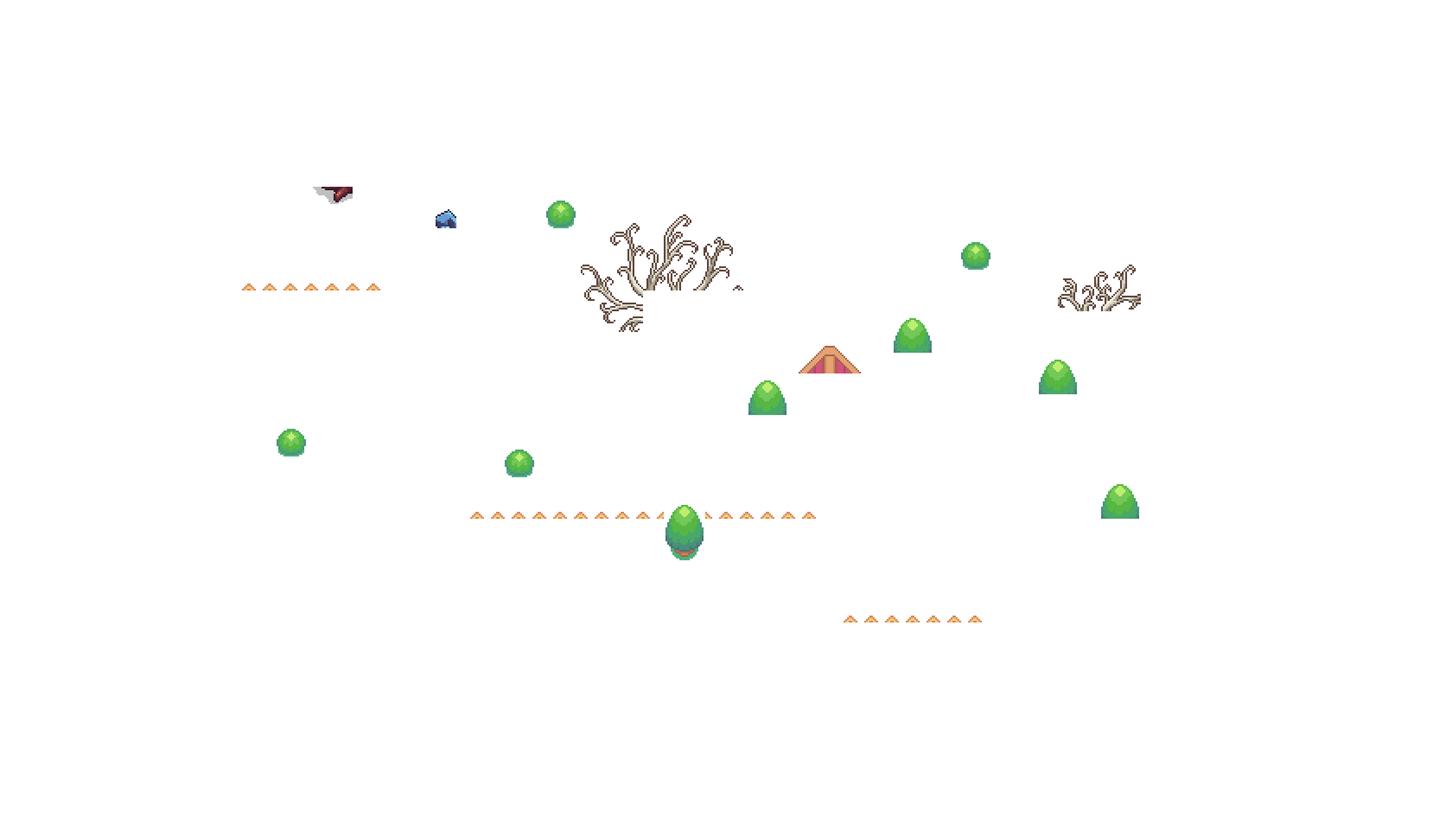
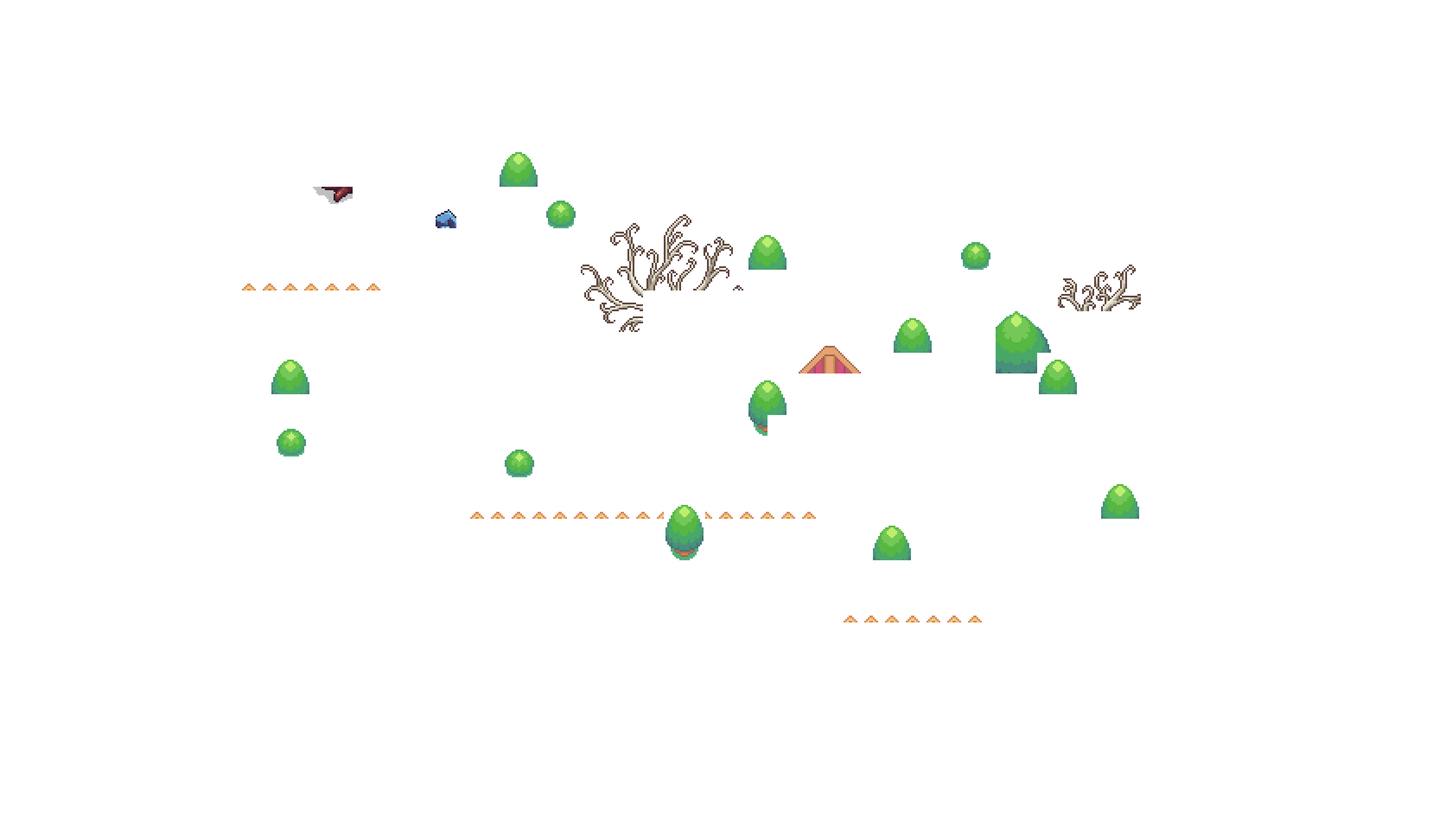
Initial commit

diff --git a/data/collisions.js b/data/collisions.js
@@ -3,34 +3,34 @@ const collisions = [0, 0, 0, 0, 0, 0, 0, 0, 0, 0, 0, 0, 0, 0, 0, 0, 0, 0, 0, 0, 
     0, 0, 0, 0, 0, 0, 0, 0, 0, 0, 0, 0, 0, 0, 0, 0, 0, 0, 0, 0, 0, 0, 0, 0, 0, 0, 0, 0, 0, 0, 0, 0, 0, 0, 0, 0, 0, 0, 0, 0, 0, 0, 0, 0, 0, 0, 0, 0, 0, 0, 0, 0, 0, 0, 0, 0, 0, 0, 0, 0, 0, 0, 0, 0, 0, 0, 0, 0, 0, 0,
     0, 0, 0, 0, 0, 0, 0, 0, 0, 0, 0, 0, 0, 0, 0, 0, 0, 0, 0, 0, 0, 0, 0, 0, 0, 0, 0, 0, 0, 0, 0, 0, 0, 0, 0, 0, 0, 0, 0, 0, 0, 0, 0, 0, 0, 0, 0, 0, 0, 0, 0, 0, 0, 0, 0, 0, 0, 0, 0, 0, 0, 0, 0, 0, 0, 0, 0, 0, 0, 0,
     0, 0, 0, 0, 0, 0, 0, 0, 0, 0, 0, 0, 0, 0, 0, 0, 0, 0, 0, 0, 0, 0, 0, 0, 0, 0, 0, 0, 0, 0, 0, 0, 0, 0, 0, 0, 0, 0, 0, 0, 0, 0, 0, 0, 0, 0, 0, 0, 0, 0, 0, 0, 0, 0, 0, 0, 0, 0, 0, 0, 0, 0, 0, 0, 0, 0, 0, 0, 0, 0,
-    0, 0, 0, 0, 0, 0, 0, 0, 0, 0, 0, 0, 0, 0, 0, 0, 0, 0, 0, 0, 0, 0, 0, 0, 0, 0, 0, 0, 0, 0, 0, 0, 0, 0, 0, 0, 0, 0, 0, 0, 0, 0, 0, 0, 0, 0, 0, 0, 0, 0, 0, 0, 0, 0, 0, 0, 0, 0, 0, 0, 0, 0, 0, 0, 0, 0, 0, 0, 0, 0,
-    0, 0, 0, 0, 0, 0, 0, 0, 0, 0, 0, 0, 0, 0, 0, 0, 0, 0, 0, 0, 4541, 4541, 4541, 4541, 4541, 4541, 4541, 4541, 0, 0, 0, 0, 0, 0, 0, 0, 0, 0, 0, 0, 0, 0, 0, 0, 0, 0, 0, 0, 0, 0, 0, 0, 0, 0, 0, 0, 0, 0, 0, 0, 0, 0, 0, 0, 0, 0, 0, 0, 0, 0,
-    0, 0, 0, 0, 0, 0, 0, 0, 0, 0, 0, 0, 0, 0, 0, 0, 0, 0, 0, 4541, 0, 0, 0, 0, 0, 0, 0, 0, 4541, 4541, 4541, 0, 0, 0, 0, 0, 0, 0, 0, 0, 0, 0, 0, 0, 0, 0, 0, 0, 0, 0, 0, 0, 0, 0, 0, 0, 0, 0, 0, 0, 0, 0, 0, 0, 0, 0, 0, 0, 0, 0,
-    0, 0, 0, 0, 0, 0, 0, 0, 0, 0, 0, 4541, 4541, 4541, 4541, 4541, 4541, 4541, 4541, 4541, 4541, 4541, 4541, 4541, 4541, 0, 0, 0, 0, 0, 0, 4541, 4541, 4541, 4541, 4541, 0, 0, 0, 0, 0, 0, 0, 0, 0, 0, 0, 0, 0, 0, 0, 0, 4541, 4541, 0, 0, 0, 0, 0, 0, 0, 0, 0, 0, 0, 0, 0, 0, 0, 0,
-    0, 0, 0, 0, 0, 0, 0, 0, 0, 0, 0, 4541, 0, 0, 4541, 0, 0, 0, 0, 0, 0, 0, 4541, 4541, 0, 4541, 0, 0, 0, 0, 0, 0, 0, 0, 0, 0, 4541, 0, 0, 0, 0, 0, 0, 0, 0, 0, 0, 0, 0, 0, 4541, 4541, 0, 0, 4541, 4541, 0, 0, 0, 0, 0, 0, 0, 0, 0, 0, 0, 0, 0, 0,
-    0, 0, 0, 0, 0, 0, 0, 0, 0, 4541, 4541, 0, 0, 0, 4541, 0, 0, 0, 0, 0, 0, 0, 4541, 0, 4541, 0, 0, 0, 0, 0, 0, 0, 0, 0, 0, 0, 0, 4541, 0, 0, 0, 0, 0, 0, 0, 4541, 4541, 4541, 4541, 4541, 0, 0, 0, 0, 0, 0, 4541, 0, 0, 0, 0, 0, 0, 0, 0, 0, 0, 0, 0, 0,
-    0, 0, 0, 0, 0, 0, 0, 0, 0, 4541, 4541, 4541, 4541, 4541, 4541, 4541, 0, 0, 0, 0, 0, 4541, 4541, 0, 4541, 0, 0, 0, 0, 0, 0, 0, 0, 0, 0, 0, 0, 0, 0, 0, 4541, 4541, 4541, 4541, 4541, 4541, 0, 0, 4541, 4541, 0, 0, 0, 0, 0, 4541, 0, 0, 0, 0, 0, 0, 0, 0, 0, 0, 0, 0, 0, 0,
-    0, 0, 0, 0, 0, 0, 0, 0, 0, 4541, 0, 0, 0, 0, 0, 0, 0, 0, 0, 0, 0, 0, 0, 0, 4541, 0, 0, 0, 0, 0, 0, 0, 0, 0, 0, 0, 0, 0, 4541, 4541, 0, 0, 0, 0, 0, 0, 0, 0, 0, 0, 0, 0, 0, 0, 0, 4541, 0, 0, 0, 0, 0, 0, 0, 0, 0, 0, 0, 0, 0, 0,
+    0, 0, 0, 0, 0, 0, 0, 0, 0, 0, 0, 0, 0, 0, 0, 0, 0, 0, 0, 4541, 4541, 4541, 4541, 4541, 4541, 4541, 4541, 0, 0, 0, 0, 0, 0, 0, 0, 0, 0, 0, 0, 0, 0, 0, 0, 0, 0, 0, 0, 0, 0, 0, 0, 0, 0, 0, 0, 0, 0, 0, 0, 0, 0, 0, 0, 0, 0, 0, 0, 0, 0, 0,
+    0, 0, 0, 0, 0, 0, 0, 0, 0, 0, 0, 0, 0, 0, 0, 0, 0, 0, 0, 4541, 0, 0, 0, 0, 0, 0, 0, 4541, 0, 0, 0, 0, 0, 0, 0, 0, 0, 0, 0, 0, 0, 0, 0, 0, 0, 0, 0, 0, 0, 0, 0, 0, 0, 0, 0, 0, 0, 0, 0, 0, 0, 0, 0, 0, 0, 0, 0, 0, 0, 0,
+    0, 0, 0, 0, 0, 0, 0, 0, 0, 0, 0, 0, 0, 0, 0, 0, 0, 0, 0, 4541, 0, 0, 0, 0, 0, 0, 0, 0, 4541, 4541, 4541, 4541, 0, 0, 0, 0, 0, 0, 0, 0, 0, 0, 0, 0, 4541, 4541, 0, 0, 0, 0, 0, 0, 0, 0, 0, 0, 0, 0, 0, 0, 0, 0, 0, 0, 0, 0, 0, 0, 0, 0,
+    0, 0, 0, 0, 0, 0, 0, 0, 0, 0, 0, 0, 0, 0, 0, 4541, 4541, 4541, 4541, 4541, 4541, 4541, 4541, 4541, 4541, 0, 0, 0, 0, 0, 0, 0, 4541, 4541, 4541, 4541, 4541, 0, 0, 0, 0, 0, 0, 4541, 0, 4541, 0, 0, 0, 0, 0, 4541, 4541, 4541, 0, 0, 0, 0, 0, 0, 0, 0, 0, 0, 0, 0, 0, 0, 0, 0,
+    0, 0, 0, 0, 0, 0, 0, 0, 0, 0, 0, 0, 0, 0, 4541, 0, 0, 0, 0, 0, 0, 0, 4541, 4541, 0, 4541, 0, 0, 0, 0, 0, 0, 0, 0, 0, 0, 0, 4541, 0, 0, 0, 0, 4541, 0, 0, 4541, 0, 0, 0, 0, 4541, 0, 0, 0, 4541, 4541, 0, 0, 0, 0, 0, 0, 0, 0, 0, 0, 0, 0, 0, 0,
+    0, 0, 0, 0, 0, 0, 0, 0, 0, 0, 0, 0, 0, 0, 4541, 0, 0, 0, 0, 0, 0, 0, 4541, 0, 4541, 0, 4541, 0, 0, 0, 0, 0, 0, 0, 0, 0, 0, 4541, 0, 0, 0, 4541, 0, 0, 0, 4541, 4541, 4541, 4541, 4541, 0, 0, 0, 0, 0, 0, 4541, 0, 0, 0, 0, 0, 0, 0, 0, 0, 0, 0, 0, 0,
+    0, 0, 0, 0, 0, 0, 0, 0, 0, 0, 4541, 4541, 4541, 4541, 4541, 0, 0, 0, 0, 0, 0, 4541, 4541, 0, 4541, 0, 0, 0, 0, 0, 0, 0, 0, 0, 0, 0, 0, 0, 0, 0, 4541, 4541, 0, 0, 4541, 4541, 0, 0, 4541, 0, 0, 0, 0, 0, 0, 0, 4541, 0, 0, 0, 0, 0, 0, 0, 0, 0, 0, 0, 0, 0,
+    0, 0, 0, 0, 0, 0, 0, 0, 0, 4541, 0, 0, 0, 0, 0, 0, 0, 0, 0, 0, 0, 0, 0, 0, 4541, 0, 0, 0, 0, 0, 0, 0, 0, 0, 0, 0, 0, 0, 4541, 4541, 0, 0, 0, 0, 0, 0, 0, 0, 0, 0, 0, 0, 0, 0, 0, 0, 0, 4541, 0, 0, 0, 0, 0, 0, 0, 0, 0, 0, 0, 0,
     0, 0, 0, 0, 0, 0, 0, 0, 4541, 0, 0, 0, 0, 0, 0, 0, 0, 0, 0, 0, 0, 0, 0, 0, 4541, 0, 0, 0, 0, 0, 0, 0, 0, 0, 0, 0, 4541, 4541, 0, 0, 0, 0, 0, 0, 0, 0, 0, 0, 0, 0, 0, 0, 0, 0, 0, 0, 4541, 0, 0, 0, 0, 0, 0, 0, 0, 0, 0, 0, 0, 0,
     0, 0, 0, 0, 0, 0, 0, 0, 4541, 0, 0, 0, 4541, 4541, 4541, 4541, 4541, 4541, 4541, 0, 0, 0, 0, 0, 4541, 0, 0, 0, 0, 0, 0, 4541, 4541, 0, 4541, 4541, 0, 0, 0, 0, 0, 0, 0, 0, 0, 0, 0, 0, 0, 0, 0, 0, 0, 0, 0, 0, 0, 4541, 0, 0, 0, 0, 0, 0, 0, 0, 0, 0, 0, 0,
-    0, 0, 0, 0, 0, 0, 0, 0, 0, 4541, 4541, 0, 0, 0, 0, 4541, 4541, 4541, 4541, 4541, 0, 0, 0, 4541, 0, 0, 0, 0, 0, 0, 4541, 0, 0, 4541, 0, 4541, 0, 0, 0, 0, 0, 0, 0, 0, 0, 0, 0, 0, 0, 4541, 4541, 4541, 4541, 4541, 0, 0, 0, 4541, 0, 0, 0, 0, 0, 0, 0, 0, 0, 0, 0, 0,
-    0, 0, 0, 0, 0, 0, 0, 0, 0, 0, 0, 4541, 4541, 4541, 4541, 0, 0, 0, 0, 0, 0, 0, 0, 0, 0, 0, 0, 0, 0, 0, 0, 0, 0, 0, 0, 0, 0, 0, 0, 0, 0, 0, 0, 0, 0, 0, 0, 4541, 4541, 0, 4541, 0, 4541, 4541, 0, 0, 0, 4541, 0, 0, 0, 0, 0, 0, 0, 0, 0, 0, 0, 0,
-    0, 0, 0, 0, 0, 0, 0, 0, 0, 0, 0, 0, 0, 0, 4541, 0, 0, 0, 0, 0, 0, 0, 0, 0, 0, 0, 0, 0, 0, 0, 0, 0, 0, 0, 0, 0, 0, 0, 0, 0, 0, 0, 0, 4541, 4541, 0, 0, 4541, 0, 0, 0, 0, 0, 0, 0, 0, 0, 4541, 0, 0, 0, 0, 0, 0, 0, 0, 0, 0, 0, 0,
-    0, 0, 0, 0, 0, 0, 0, 0, 0, 0, 0, 0, 0, 0, 4541, 0, 0, 0, 0, 0, 0, 0, 0, 0, 0, 0, 0, 0, 0, 0, 0, 4541, 4541, 0, 0, 0, 0, 0, 4541, 4541, 4541, 4541, 0, 0, 0, 0, 0, 4541, 4541, 4541, 0, 0, 0, 0, 0, 0, 4541, 4541, 0, 0, 0, 0, 0, 0, 0, 0, 0, 0, 0, 0,
+    0, 0, 0, 0, 0, 0, 0, 0, 0, 4541, 4541, 4541, 0, 0, 0, 0, 0, 0, 0, 4541, 0, 0, 0, 0, 0, 0, 0, 0, 0, 0, 4541, 0, 0, 4541, 0, 4541, 0, 0, 0, 0, 0, 0, 0, 0, 0, 0, 0, 0, 0, 0, 0, 0, 4541, 4541, 0, 0, 0, 4541, 0, 0, 0, 0, 0, 0, 0, 0, 0, 0, 0, 0,
+    0, 0, 0, 0, 0, 0, 0, 0, 0, 0, 0, 4541, 0, 0, 0, 0, 0, 0, 0, 0, 0, 0, 0, 0, 0, 0, 0, 0, 0, 0, 0, 0, 0, 0, 0, 0, 0, 0, 0, 0, 0, 0, 0, 0, 0, 0, 0, 4541, 0, 0, 0, 0, 0, 0, 0, 0, 0, 4541, 0, 0, 0, 0, 0, 0, 0, 0, 0, 0, 0, 0,
+    0, 0, 0, 0, 0, 0, 0, 0, 0, 0, 0, 4541, 0, 0, 0, 0, 0, 0, 0, 0, 0, 0, 0, 0, 0, 0, 0, 0, 0, 0, 0, 0, 0, 0, 0, 0, 0, 0, 0, 0, 0, 0, 0, 4541, 4541, 0, 0, 4541, 0, 0, 4541, 0, 0, 0, 0, 0, 0, 4541, 0, 0, 0, 0, 0, 0, 0, 0, 0, 0, 0, 0,
+    0, 0, 0, 0, 0, 0, 0, 0, 0, 0, 0, 0, 4541, 0, 0, 0, 0, 0, 0, 0, 0, 0, 0, 0, 0, 0, 0, 0, 0, 0, 0, 0, 0, 0, 0, 0, 0, 0, 4541, 4541, 4541, 4541, 0, 0, 0, 0, 0, 4541, 4541, 4541, 0, 0, 0, 0, 0, 0, 4541, 4541, 0, 0, 0, 0, 0, 0, 0, 0, 0, 0, 0, 0,
     0, 0, 0, 0, 0, 0, 0, 0, 0, 0, 0, 0, 0, 4541, 0, 0, 0, 0, 0, 0, 0, 0, 0, 0, 0, 0, 0, 0, 0, 0, 0, 4541, 4541, 0, 0, 0, 0, 0, 0, 0, 0, 0, 4541, 4541, 0, 0, 0, 0, 0, 0, 4541, 4541, 0, 0, 0, 4541, 0, 0, 0, 0, 0, 0, 0, 0, 0, 0, 0, 0, 0, 0,
-    0, 0, 0, 0, 0, 0, 0, 0, 0, 0, 0, 0, 4541, 0, 0, 0, 0, 0, 0, 0, 0, 0, 0, 0, 0, 0, 0, 0, 0, 0, 0, 4541, 4541, 0, 0, 0, 4541, 4541, 0, 0, 0, 0, 0, 4541, 0, 0, 0, 0, 0, 0, 0, 0, 0, 0, 0, 4541, 0, 0, 0, 0, 0, 0, 0, 0, 0, 0, 0, 0, 0, 0,
-    0, 0, 0, 0, 0, 0, 0, 0, 0, 0, 0, 0, 4541, 0, 0, 0, 0, 0, 0, 0, 0, 0, 0, 0, 0, 0, 0, 0, 0, 0, 0, 0, 0, 0, 0, 0, 0, 0, 4541, 4541, 4541, 0, 0, 4541, 0, 0, 0, 0, 0, 0, 0, 0, 0, 0, 0, 4541, 0, 0, 0, 0, 0, 0, 0, 0, 0, 0, 0, 0, 0, 0,
-    0, 0, 0, 0, 0, 0, 0, 0, 0, 0, 0, 0, 4541, 4541, 4541, 4541, 4541, 4541, 0, 0, 0, 0, 0, 0, 0, 0, 0, 0, 0, 0, 0, 0, 0, 0, 0, 0, 0, 0, 4541, 0, 0, 4541, 4541, 0, 0, 0, 0, 0, 0, 0, 4541, 4541, 4541, 0, 0, 4541, 0, 0, 0, 0, 0, 0, 0, 0, 0, 0, 0, 0, 0, 0,
-    0, 0, 0, 0, 0, 0, 0, 0, 0, 0, 0, 0, 0, 0, 0, 0, 0, 0, 4541, 0, 0, 0, 0, 0, 0, 0, 0, 0, 0, 0, 0, 0, 0, 0, 0, 0, 0, 0, 0, 0, 0, 0, 0, 0, 0, 0, 0, 0, 0, 0, 0, 0, 0, 0, 0, 4541, 0, 0, 0, 0, 0, 0, 0, 0, 0, 0, 0, 0, 0, 0,
-    0, 0, 0, 0, 0, 0, 0, 0, 0, 0, 0, 0, 0, 0, 0, 0, 0, 0, 4541, 0, 0, 0, 0, 0, 0, 0, 0, 0, 0, 0, 0, 0, 0, 0, 0, 0, 0, 0, 0, 0, 0, 0, 0, 0, 0, 0, 0, 0, 0, 0, 0, 0, 0, 4541, 4541, 4541, 0, 0, 0, 0, 0, 0, 0, 0, 0, 0, 0, 0, 0, 0,
-    0, 0, 0, 0, 0, 0, 0, 0, 0, 0, 0, 0, 0, 0, 0, 0, 0, 0, 4541, 0, 0, 0, 4541, 4541, 4541, 4541, 4541, 4541, 4541, 4541, 4541, 4541, 4541, 4541, 4541, 4541, 4541, 4541, 4541, 4541, 0, 0, 0, 0, 0, 0, 0, 0, 0, 0, 0, 0, 0, 4541, 0, 0, 0, 0, 0, 0, 0, 0, 0, 0, 0, 0, 0, 0, 0, 0,
-    0, 0, 0, 0, 0, 0, 0, 0, 0, 0, 0, 0, 0, 0, 0, 0, 0, 0, 0, 4541, 4541, 4541, 0, 0, 0, 0, 0, 0, 0, 0, 0, 0, 4541, 4541, 0, 0, 0, 0, 0, 0, 0, 0, 4541, 4541, 0, 0, 0, 0, 0, 0, 0, 0, 0, 4541, 4541, 0, 0, 0, 0, 0, 0, 0, 0, 0, 0, 0, 0, 0, 0, 0,
-    0, 0, 0, 0, 0, 0, 0, 0, 0, 0, 0, 0, 0, 0, 0, 0, 0, 0, 0, 0, 0, 0, 0, 0, 0, 0, 0, 0, 0, 0, 0, 0, 0, 4541, 0, 0, 0, 0, 0, 0, 0, 0, 0, 0, 0, 0, 0, 0, 0, 0, 0, 0, 0, 0, 0, 4541, 0, 0, 0, 0, 0, 0, 0, 0, 0, 0, 0, 0, 0, 0,
-    0, 0, 0, 0, 0, 0, 0, 0, 0, 0, 0, 0, 0, 0, 0, 0, 0, 0, 0, 0, 0, 0, 0, 0, 0, 0, 0, 0, 0, 0, 0, 4541, 4541, 0, 0, 0, 0, 0, 0, 0, 0, 0, 0, 0, 0, 0, 0, 0, 0, 0, 0, 0, 0, 0, 0, 4541, 0, 0, 0, 0, 0, 0, 0, 0, 0, 0, 0, 0, 0, 0,
-    0, 0, 0, 0, 0, 0, 0, 0, 0, 0, 0, 0, 0, 0, 0, 0, 0, 0, 0, 0, 0, 0, 0, 0, 0, 0, 0, 0, 0, 0, 0, 4541, 0, 0, 0, 0, 0, 0, 0, 0, 0, 0, 0, 0, 0, 0, 0, 0, 0, 0, 0, 0, 0, 0, 0, 4541, 0, 0, 0, 0, 0, 0, 0, 0, 0, 0, 0, 0, 0, 0,
-    0, 0, 0, 0, 0, 0, 0, 0, 0, 0, 0, 0, 0, 0, 0, 0, 0, 0, 0, 0, 0, 0, 0, 0, 0, 0, 0, 0, 0, 0, 0, 4541, 0, 0, 0, 0, 0, 0, 0, 0, 0, 4541, 4541, 4541, 4541, 4541, 4541, 4541, 4541, 4541, 4541, 4541, 4541, 0, 0, 4541, 0, 0, 0, 0, 0, 0, 0, 0, 0, 0, 0, 0, 0, 0,
-    0, 0, 0, 0, 0, 0, 0, 0, 0, 0, 0, 0, 0, 0, 0, 0, 0, 0, 0, 0, 0, 0, 0, 0, 0, 0, 0, 0, 0, 0, 0, 4541, 4541, 4541, 4541, 4541, 4541, 0, 0, 0, 4541, 0, 0, 0, 0, 0, 0, 0, 0, 0, 0, 0, 4541, 4541, 4541, 4541, 0, 0, 0, 0, 0, 0, 0, 0, 0, 0, 0, 0, 0, 0,
-    0, 0, 0, 0, 0, 0, 0, 0, 0, 0, 0, 0, 0, 0, 0, 0, 0, 0, 0, 0, 0, 0, 0, 0, 0, 0, 0, 0, 0, 0, 0, 0, 0, 0, 0, 0, 0, 4541, 4541, 4541, 4541, 0, 0, 0, 0, 0, 0, 0, 0, 0, 0, 0, 0, 0, 0, 0, 0, 0, 0, 0, 0, 0, 0, 0, 0, 0, 0, 0, 0, 0,
+    0, 0, 0, 0, 0, 0, 0, 0, 0, 0, 0, 0, 4541, 0, 0, 0, 0, 0, 0, 0, 0, 0, 0, 0, 0, 0, 0, 0, 0, 0, 0, 4541, 0, 0, 0, 0, 0, 4541, 0, 0, 0, 4541, 0, 4541, 0, 0, 0, 0, 0, 0, 0, 0, 0, 0, 0, 4541, 0, 0, 0, 0, 0, 0, 0, 0, 0, 0, 0, 0, 0, 0,
+    0, 0, 0, 0, 0, 0, 0, 0, 0, 0, 0, 0, 0, 4541, 0, 0, 0, 0, 0, 0, 0, 0, 0, 0, 0, 0, 0, 0, 0, 0, 0, 0, 0, 0, 0, 0, 0, 0, 4541, 4541, 4541, 4541, 0, 0, 0, 0, 0, 0, 0, 0, 0, 0, 0, 0, 0, 4541, 0, 0, 0, 0, 0, 0, 0, 0, 0, 0, 0, 0, 0, 0,
+    0, 0, 0, 0, 0, 0, 0, 0, 0, 0, 0, 0, 0, 0, 4541, 4541, 4541, 4541, 0, 0, 0, 0, 0, 0, 0, 4541, 0, 0, 0, 0, 0, 0, 0, 0, 0, 0, 0, 0, 0, 0, 0, 0, 0, 0, 0, 0, 0, 0, 0, 0, 0, 0, 0, 0, 0, 4541, 0, 0, 0, 0, 0, 0, 0, 0, 0, 0, 0, 0, 0, 0,
+    0, 0, 0, 0, 0, 0, 0, 0, 0, 0, 0, 0, 0, 0, 0, 0, 0, 0, 4541, 0, 0, 0, 0, 0, 0, 0, 0, 0, 0, 0, 0, 0, 0, 0, 0, 0, 0, 0, 0, 0, 0, 0, 0, 0, 0, 0, 0, 0, 4541, 4541, 4541, 4541, 4541, 0, 0, 4541, 0, 0, 0, 0, 0, 0, 0, 0, 0, 0, 0, 0, 0, 0,
+    0, 0, 0, 0, 0, 0, 0, 0, 0, 0, 0, 0, 0, 0, 0, 0, 0, 0, 4541, 0, 0, 0, 0, 0, 0, 0, 0, 0, 0, 0, 0, 0, 0, 0, 0, 0, 0, 0, 0, 0, 0, 0, 0, 0, 0, 0, 0, 0, 0, 4541, 4541, 4541, 0, 4541, 4541, 4541, 0, 0, 0, 0, 0, 0, 0, 0, 0, 0, 0, 0, 0, 0,
+    0, 0, 0, 0, 0, 0, 0, 0, 0, 0, 0, 0, 0, 0, 0, 0, 0, 0, 4541, 0, 0, 0, 4541, 4541, 4541, 4541, 4541, 4541, 4541, 4541, 4541, 4541, 4541, 4541, 4541, 4541, 4541, 4541, 4541, 0, 0, 0, 0, 0, 0, 0, 0, 0, 0, 0, 0, 0, 0, 4541, 0, 0, 0, 0, 0, 0, 0, 0, 0, 0, 0, 0, 0, 0, 0, 0,
+    0, 0, 0, 0, 0, 0, 0, 0, 0, 0, 0, 0, 0, 0, 0, 0, 0, 0, 0, 4541, 4541, 4541, 0, 0, 0, 0, 0, 0, 0, 0, 0, 0, 4541, 4541, 0, 0, 0, 0, 0, 0, 0, 0, 0, 4541, 0, 0, 0, 0, 0, 0, 0, 0, 0, 4541, 4541, 0, 0, 0, 0, 0, 0, 0, 0, 0, 0, 0, 0, 0, 0, 0,
+    0, 0, 0, 0, 0, 0, 0, 0, 0, 0, 0, 0, 0, 0, 0, 0, 0, 0, 0, 0, 0, 0, 0, 0, 0, 0, 0, 0, 4541, 4541, 0, 4541, 0, 4541, 0, 0, 0, 0, 0, 0, 0, 0, 0, 4541, 0, 0, 0, 0, 0, 0, 0, 0, 0, 0, 0, 4541, 0, 0, 0, 0, 0, 0, 0, 0, 0, 0, 0, 0, 0, 0,
+    0, 0, 0, 0, 0, 0, 0, 0, 0, 0, 0, 0, 0, 0, 0, 0, 0, 0, 0, 0, 0, 0, 0, 0, 0, 0, 0, 4541, 0, 0, 4541, 0, 0, 0, 0, 0, 0, 0, 0, 0, 0, 0, 0, 0, 0, 0, 0, 0, 0, 0, 0, 0, 0, 0, 0, 4541, 0, 0, 0, 0, 0, 0, 0, 0, 0, 0, 0, 0, 0, 0,
+    0, 0, 0, 0, 0, 0, 0, 0, 0, 0, 0, 0, 0, 0, 0, 0, 0, 0, 0, 0, 0, 0, 0, 0, 0, 0, 0, 4541, 0, 0, 0, 0, 0, 0, 0, 0, 0, 0, 0, 0, 0, 0, 0, 0, 0, 0, 0, 0, 0, 0, 0, 0, 0, 0, 0, 4541, 0, 0, 0, 0, 0, 0, 0, 0, 0, 0, 0, 0, 0, 0,
+    0, 0, 0, 0, 0, 0, 0, 0, 0, 0, 0, 0, 0, 0, 0, 0, 0, 0, 0, 0, 0, 0, 0, 0, 0, 0, 0, 4541, 0, 0, 0, 0, 0, 4541, 0, 0, 0, 0, 0, 0, 0, 4541, 4541, 4541, 4541, 4541, 4541, 4541, 4541, 4541, 4541, 4541, 4541, 0, 0, 4541, 0, 0, 0, 0, 0, 0, 0, 0, 0, 0, 0, 0, 0, 0,
+    0, 0, 0, 0, 0, 0, 0, 0, 0, 0, 0, 0, 0, 0, 0, 0, 0, 0, 0, 0, 0, 0, 0, 0, 0, 0, 0, 0, 4541, 4541, 4541, 4541, 4541, 0, 4541, 4541, 0, 0, 0, 0, 4541, 0, 0, 0, 0, 0, 0, 0, 0, 0, 0, 0, 4541, 4541, 4541, 4541, 0, 0, 0, 0, 0, 0, 0, 0, 0, 0, 0, 0, 0, 0,
+    0, 0, 0, 0, 0, 0, 0, 0, 0, 0, 0, 0, 0, 0, 0, 0, 0, 0, 0, 0, 0, 0, 0, 0, 0, 0, 0, 0, 0, 0, 0, 0, 0, 0, 0, 0, 4541, 4541, 4541, 4541, 4541, 0, 0, 0, 0, 0, 0, 0, 0, 0, 0, 0, 0, 0, 0, 0, 0, 0, 0, 0, 0, 0, 0, 0, 0, 0, 0, 0, 0, 0,
     0, 0, 0, 0, 0, 0, 0, 0, 0, 0, 0, 0, 0, 0, 0, 0, 0, 0, 0, 0, 0, 0, 0, 0, 0, 0, 0, 0, 0, 0, 0, 0, 0, 0, 0, 0, 0, 0, 0, 0, 0, 0, 0, 0, 0, 0, 0, 0, 0, 0, 0, 0, 0, 0, 0, 0, 0, 0, 0, 0, 0, 0, 0, 0, 0, 0, 0, 0, 0, 0,
     0, 0, 0, 0, 0, 0, 0, 0, 0, 0, 0, 0, 0, 0, 0, 0, 0, 0, 0, 0, 0, 0, 0, 0, 0, 0, 0, 0, 0, 0, 0, 0, 0, 0, 0, 0, 0, 0, 0, 0, 0, 0, 0, 0, 0, 0, 0, 0, 0, 0, 0, 0, 0, 0, 0, 0, 0, 0, 0, 0, 0, 0, 0, 0, 0, 0, 0, 0, 0, 0,
     0, 0, 0, 0, 0, 0, 0, 0, 0, 0, 0, 0, 0, 0, 0, 0, 0, 0, 0, 0, 0, 0, 0, 0, 0, 0, 0, 0, 0, 0, 0, 0, 0, 0, 0, 0, 0, 0, 0, 0, 0, 0, 0, 0, 0, 0, 0, 0, 0, 0, 0, 0, 0, 0, 0, 0, 0, 0, 0, 0, 0, 0, 0, 0, 0, 0, 0, 0, 0, 0,

diff --git a/data/battleZones.js b/data/battleZones.js
@@ -1,0 +1,40 @@
+const battleZonesData = [0, 0, 0, 0, 0, 0, 0, 0, 0, 0, 0, 0, 0, 0, 0, 0, 0, 0, 0, 0, 0, 0, 0, 0, 0, 0, 0, 0, 0, 0, 0, 0, 0, 0, 0, 0, 0, 0, 0, 0, 0, 0, 0, 0, 0, 0, 0, 0, 0, 0, 0, 0, 0, 0, 0, 0, 0, 0, 0, 0, 0, 0, 0, 0, 0, 0, 0, 0, 0, 0,
+    0, 0, 0, 0, 0, 0, 0, 0, 0, 0, 0, 0, 0, 0, 0, 0, 0, 0, 0, 0, 0, 0, 0, 0, 0, 0, 0, 0, 0, 0, 0, 0, 0, 0, 0, 0, 0, 0, 0, 0, 0, 0, 0, 0, 0, 0, 0, 0, 0, 0, 0, 0, 0, 0, 0, 0, 0, 0, 0, 0, 0, 0, 0, 0, 0, 0, 0, 0, 0, 0,
+    0, 0, 0, 0, 0, 0, 0, 0, 0, 0, 0, 0, 0, 0, 0, 0, 0, 0, 0, 0, 0, 0, 0, 0, 0, 0, 0, 0, 0, 0, 0, 0, 0, 0, 0, 0, 0, 0, 0, 0, 0, 0, 0, 0, 0, 0, 0, 0, 0, 0, 0, 0, 0, 0, 0, 0, 0, 0, 0, 0, 0, 0, 0, 0, 0, 0, 0, 0, 0, 0,
+    0, 0, 0, 0, 0, 0, 0, 0, 0, 0, 0, 0, 0, 0, 0, 0, 0, 0, 0, 0, 0, 0, 0, 0, 0, 0, 0, 0, 0, 0, 0, 0, 0, 0, 0, 0, 0, 0, 0, 0, 0, 0, 0, 0, 0, 0, 0, 0, 0, 0, 0, 0, 0, 0, 0, 0, 0, 0, 0, 0, 0, 0, 0, 0, 0, 0, 0, 0, 0, 0,
+    0, 0, 0, 0, 0, 0, 0, 0, 0, 0, 0, 0, 0, 0, 0, 0, 0, 0, 0, 0, 0, 0, 0, 0, 0, 0, 0, 0, 0, 0, 0, 0, 0, 0, 0, 0, 0, 0, 0, 0, 0, 0, 0, 0, 0, 0, 0, 0, 0, 0, 0, 0, 0, 0, 0, 0, 0, 0, 0, 0, 0, 0, 0, 0, 0, 0, 0, 0, 0, 0,
+    0, 0, 0, 0, 0, 0, 0, 0, 0, 0, 0, 0, 0, 0, 0, 0, 0, 0, 0, 0, 0, 0, 0, 0, 0, 0, 0, 0, 0, 0, 0, 0, 0, 0, 0, 0, 0, 0, 0, 0, 0, 0, 0, 0, 0, 0, 0, 0, 0, 0, 0, 0, 0, 0, 0, 0, 0, 0, 0, 0, 0, 0, 0, 0, 0, 0, 0, 0, 0, 0,
+    0, 0, 0, 0, 0, 0, 0, 0, 0, 0, 0, 0, 0, 0, 0, 0, 0, 0, 0, 0, 0, 0, 0, 0, 0, 0, 0, 0, 0, 0, 0, 0, 0, 0, 0, 0, 0, 0, 0, 0, 0, 0, 0, 0, 0, 0, 0, 0, 0, 0, 0, 0, 0, 0, 0, 0, 0, 0, 0, 0, 0, 0, 0, 0, 0, 0, 0, 0, 0, 0,
+    0, 0, 0, 0, 0, 0, 0, 0, 0, 0, 0, 0, 0, 0, 0, 0, 0, 0, 0, 0, 0, 0, 0, 0, 0, 0, 0, 0, 0, 0, 0, 0, 0, 0, 0, 0, 0, 0, 0, 0, 0, 0, 0, 0, 0, 0, 0, 0, 0, 0, 0, 0, 0, 0, 0, 0, 0, 0, 0, 0, 0, 0, 0, 0, 0, 0, 0, 0, 0, 0,
+    0, 0, 0, 0, 0, 0, 0, 0, 0, 0, 0, 0, 0, 0, 0, 0, 0, 0, 0, 0, 0, 0, 0, 0, 0, 0, 0, 0, 0, 0, 0, 0, 0, 0, 0, 0, 0, 0, 0, 0, 0, 0, 0, 0, 0, 0, 0, 0, 0, 0, 0, 0, 0, 0, 0, 0, 0, 0, 0, 0, 0, 0, 0, 0, 0, 0, 0, 0, 0, 0,
+    0, 0, 0, 0, 0, 0, 0, 0, 0, 0, 0, 0, 0, 0, 0, 0, 4541, 4541, 4541, 4541, 4541, 4541, 0, 0, 0, 0, 0, 0, 0, 0, 0, 0, 0, 0, 0, 0, 0, 0, 0, 0, 0, 0, 0, 0, 0, 0, 0, 0, 0, 0, 0, 0, 0, 0, 0, 0, 0, 0, 0, 0, 0, 0, 0, 0, 0, 0, 0, 0, 0, 0,
+    0, 0, 0, 0, 0, 0, 0, 0, 0, 0, 0, 0, 0, 0, 0, 0, 4541, 4541, 4541, 4541, 4541, 4541, 0, 0, 0, 0, 0, 0, 0, 0, 0, 0, 0, 0, 0, 0, 0, 0, 0, 0, 0, 0, 0, 0, 0, 0, 0, 0, 0, 0, 0, 0, 0, 0, 0, 0, 0, 0, 0, 0, 0, 0, 0, 0, 0, 0, 0, 0, 0, 0,
+    0, 0, 0, 0, 0, 0, 0, 0, 0, 0, 0, 0, 0, 0, 0, 0, 4541, 4541, 4541, 4541, 4541, 0, 0, 0, 0, 0, 0, 0, 0, 0, 0, 0, 0, 0, 0, 0, 0, 0, 0, 0, 0, 0, 0, 0, 0, 0, 0, 0, 0, 0, 0, 4541, 4541, 4541, 0, 0, 0, 0, 0, 0, 0, 0, 0, 0, 0, 0, 0, 0, 0, 0,
+    0, 0, 0, 0, 0, 0, 0, 0, 0, 0, 0, 0, 0, 0, 0, 0, 0, 0, 0, 0, 0, 0, 0, 0, 0, 0, 0, 0, 0, 0, 0, 0, 0, 0, 0, 0, 0, 0, 0, 0, 0, 0, 0, 0, 0, 0, 0, 0, 0, 0, 0, 4541, 4541, 4541, 0, 0, 0, 0, 0, 0, 0, 0, 0, 0, 0, 0, 0, 0, 0, 0,
+    0, 0, 0, 0, 0, 0, 0, 0, 0, 0, 0, 0, 0, 0, 0, 0, 0, 0, 0, 0, 0, 0, 0, 0, 0, 0, 0, 0, 0, 0, 0, 0, 0, 0, 0, 0, 0, 0, 0, 0, 0, 0, 0, 0, 0, 0, 0, 0, 0, 0, 0, 4541, 4541, 4541, 0, 0, 0, 0, 0, 0, 0, 0, 0, 0, 0, 0, 0, 0, 0, 0,
+    0, 0, 0, 0, 0, 0, 0, 0, 0, 0, 0, 0, 0, 0, 0, 0, 0, 0, 0, 0, 0, 0, 0, 0, 0, 0, 0, 0, 0, 0, 0, 0, 0, 0, 0, 0, 0, 0, 0, 0, 0, 0, 0, 0, 0, 0, 0, 0, 0, 0, 0, 0, 0, 0, 0, 0, 0, 0, 0, 0, 0, 0, 0, 0, 0, 0, 0, 0, 0, 0,
+    0, 0, 0, 0, 0, 0, 0, 0, 0, 0, 0, 0, 0, 0, 0, 0, 0, 0, 0, 0, 0, 0, 0, 0, 0, 0, 0, 0, 0, 0, 0, 0, 0, 0, 0, 0, 0, 0, 0, 0, 0, 0, 0, 0, 0, 0, 0, 0, 0, 0, 0, 0, 0, 0, 0, 0, 0, 0, 0, 0, 0, 0, 0, 0, 0, 0, 0, 0, 0, 0,
+    0, 0, 0, 0, 0, 0, 0, 0, 0, 0, 0, 0, 0, 0, 0, 0, 0, 0, 0, 0, 0, 0, 0, 0, 0, 0, 0, 0, 0, 0, 0, 0, 0, 0, 0, 0, 0, 0, 0, 0, 0, 0, 0, 0, 0, 0, 0, 0, 0, 0, 0, 0, 0, 0, 0, 0, 0, 0, 0, 0, 0, 0, 0, 0, 0, 0, 0, 0, 0, 0,
+    0, 0, 0, 0, 0, 0, 0, 0, 0, 0, 0, 0, 0, 0, 0, 0, 0, 0, 0, 0, 0, 0, 0, 0, 0, 0, 0, 0, 0, 0, 0, 0, 0, 0, 0, 0, 0, 0, 0, 0, 0, 0, 0, 0, 0, 0, 0, 0, 0, 0, 0, 0, 0, 0, 0, 0, 0, 0, 0, 0, 0, 0, 0, 0, 0, 0, 0, 0, 0, 0,
+    0, 0, 0, 0, 0, 0, 0, 0, 0, 0, 0, 0, 0, 0, 0, 0, 0, 0, 0, 0, 0, 0, 0, 0, 0, 0, 4541, 4541, 4541, 4541, 4541, 4541, 0, 0, 0, 0, 0, 0, 0, 0, 0, 0, 0, 0, 0, 0, 0, 0, 0, 0, 0, 0, 0, 0, 0, 0, 0, 0, 0, 0, 0, 0, 0, 0, 0, 0, 0, 0, 0, 0,
+    0, 0, 0, 0, 0, 0, 0, 0, 0, 0, 0, 0, 0, 0, 0, 0, 0, 0, 0, 0, 0, 0, 0, 0, 0, 0, 4541, 4541, 4541, 4541, 4541, 4541, 0, 0, 0, 0, 0, 0, 0, 0, 0, 0, 0, 0, 0, 0, 0, 0, 0, 0, 0, 0, 0, 0, 0, 0, 0, 0, 0, 0, 0, 0, 0, 0, 0, 0, 0, 0, 0, 0,
+    0, 0, 0, 0, 0, 0, 0, 0, 0, 0, 0, 0, 0, 0, 0, 0, 0, 0, 0, 0, 0, 0, 0, 0, 0, 0, 4541, 4541, 4541, 4541, 4541, 4541, 0, 0, 0, 0, 0, 0, 0, 0, 0, 0, 0, 0, 0, 0, 0, 0, 0, 0, 0, 0, 0, 0, 0, 0, 0, 0, 0, 0, 0, 0, 0, 0, 0, 0, 0, 0, 0, 0,
+    0, 0, 0, 0, 0, 0, 0, 0, 0, 0, 0, 0, 0, 0, 0, 0, 0, 0, 0, 0, 0, 0, 0, 0, 0, 0, 4541, 4541, 4541, 4541, 4541, 4541, 0, 0, 0, 0, 0, 0, 0, 0, 0, 0, 0, 0, 0, 0, 0, 0, 0, 0, 0, 0, 0, 0, 0, 0, 0, 0, 0, 0, 0, 0, 0, 0, 0, 0, 0, 0, 0, 0,
+    0, 0, 0, 0, 0, 0, 0, 0, 0, 0, 0, 0, 0, 0, 0, 0, 0, 0, 0, 0, 0, 0, 0, 0, 0, 0, 0, 0, 0, 0, 0, 0, 0, 0, 0, 0, 0, 0, 0, 0, 0, 0, 0, 0, 0, 0, 0, 0, 0, 0, 0, 0, 0, 0, 0, 0, 0, 0, 0, 0, 0, 0, 0, 0, 0, 0, 0, 0, 0, 0,
+    0, 0, 0, 0, 0, 0, 0, 0, 0, 0, 0, 0, 0, 0, 0, 0, 0, 0, 0, 0, 0, 0, 0, 0, 0, 0, 0, 0, 0, 0, 0, 0, 0, 0, 0, 0, 0, 0, 0, 0, 0, 0, 0, 0, 0, 0, 0, 0, 0, 0, 0, 0, 0, 0, 0, 0, 0, 0, 0, 0, 0, 0, 0, 0, 0, 0, 0, 0, 0, 0,
+    0, 0, 0, 0, 0, 0, 0, 0, 0, 0, 0, 0, 0, 0, 0, 0, 0, 0, 0, 0, 0, 0, 0, 0, 0, 0, 0, 0, 0, 0, 0, 0, 0, 0, 0, 0, 0, 0, 0, 0, 0, 0, 0, 0, 0, 0, 0, 0, 0, 0, 0, 0, 0, 0, 0, 0, 0, 0, 0, 0, 0, 0, 0, 0, 0, 0, 0, 0, 0, 0,
+    0, 0, 0, 0, 0, 0, 0, 0, 0, 0, 0, 0, 0, 0, 0, 0, 0, 0, 0, 0, 0, 0, 0, 0, 0, 0, 0, 0, 0, 0, 0, 0, 0, 0, 0, 0, 0, 0, 0, 0, 0, 0, 0, 0, 0, 0, 0, 0, 0, 0, 0, 0, 0, 0, 0, 0, 0, 0, 0, 0, 0, 0, 0, 0, 0, 0, 0, 0, 0, 0,
+    0, 0, 0, 0, 0, 0, 0, 0, 0, 0, 0, 0, 0, 0, 0, 0, 0, 0, 0, 0, 0, 0, 0, 0, 0, 0, 0, 0, 0, 0, 0, 0, 0, 0, 0, 0, 0, 0, 0, 0, 0, 0, 0, 0, 0, 0, 0, 0, 0, 0, 0, 0, 0, 0, 0, 0, 0, 0, 0, 0, 0, 0, 0, 0, 0, 0, 0, 0, 0, 0,
+    0, 0, 0, 0, 0, 0, 0, 0, 0, 0, 0, 0, 0, 0, 0, 0, 0, 0, 0, 0, 0, 0, 0, 0, 0, 0, 0, 0, 0, 0, 0, 0, 0, 0, 0, 0, 0, 0, 0, 0, 0, 0, 0, 0, 0, 0, 0, 0, 0, 0, 0, 0, 0, 0, 0, 0, 0, 0, 0, 0, 0, 0, 0, 0, 0, 0, 0, 0, 0, 0,
+    0, 0, 0, 0, 0, 0, 0, 0, 0, 0, 0, 0, 0, 0, 0, 0, 0, 0, 0, 0, 0, 0, 0, 0, 0, 0, 0, 0, 0, 0, 0, 0, 0, 0, 0, 0, 0, 0, 0, 0, 0, 0, 0, 0, 0, 0, 0, 0, 0, 0, 0, 0, 0, 0, 0, 0, 0, 0, 0, 0, 0, 0, 0, 0, 0, 0, 0, 0, 0, 0,
+    0, 0, 0, 0, 0, 0, 0, 0, 0, 0, 0, 0, 0, 0, 0, 0, 0, 0, 0, 0, 0, 0, 0, 0, 0, 0, 0, 0, 0, 0, 0, 0, 0, 0, 0, 0, 0, 0, 0, 0, 0, 0, 0, 0, 0, 0, 0, 0, 0, 0, 0, 0, 0, 0, 0, 0, 0, 0, 0, 0, 0, 0, 0, 0, 0, 0, 0, 0, 0, 0,
+    0, 0, 0, 0, 0, 0, 0, 0, 0, 0, 0, 0, 0, 0, 0, 0, 0, 0, 0, 0, 0, 0, 0, 0, 0, 0, 0, 0, 0, 0, 0, 0, 0, 0, 0, 0, 0, 0, 0, 0, 0, 0, 0, 0, 0, 0, 0, 0, 0, 0, 0, 0, 0, 0, 0, 0, 0, 0, 0, 0, 0, 0, 0, 0, 0, 0, 0, 0, 0, 0,
+    0, 0, 0, 0, 0, 0, 0, 0, 0, 0, 0, 0, 0, 0, 0, 0, 0, 0, 0, 0, 0, 0, 0, 0, 0, 0, 0, 0, 0, 0, 0, 0, 0, 0, 0, 0, 0, 0, 0, 0, 0, 0, 0, 0, 0, 0, 0, 0, 0, 0, 0, 0, 0, 0, 0, 0, 0, 0, 0, 0, 0, 0, 0, 0, 0, 0, 0, 0, 0, 0,
+    0, 0, 0, 0, 0, 0, 0, 0, 0, 0, 0, 0, 0, 0, 0, 0, 0, 0, 0, 0, 0, 0, 0, 0, 0, 0, 0, 0, 0, 0, 0, 0, 0, 0, 0, 0, 0, 0, 0, 0, 0, 0, 0, 0, 0, 0, 0, 0, 0, 0, 0, 0, 0, 0, 0, 0, 0, 0, 0, 0, 0, 0, 0, 0, 0, 0, 0, 0, 0, 0,
+    0, 0, 0, 0, 0, 0, 0, 0, 0, 0, 0, 0, 0, 0, 0, 0, 0, 0, 0, 0, 0, 0, 0, 0, 0, 0, 0, 0, 0, 0, 0, 0, 0, 0, 0, 0, 0, 0, 0, 0, 0, 0, 0, 0, 0, 0, 0, 0, 0, 0, 0, 0, 0, 0, 0, 0, 0, 0, 0, 0, 0, 0, 0, 0, 0, 0, 0, 0, 0, 0,
+    0, 0, 0, 0, 0, 0, 0, 0, 0, 0, 0, 0, 0, 0, 0, 0, 0, 0, 0, 0, 0, 0, 0, 0, 0, 0, 0, 0, 0, 0, 0, 0, 0, 0, 0, 0, 0, 0, 0, 0, 0, 0, 0, 0, 0, 0, 0, 0, 0, 0, 0, 0, 0, 0, 0, 0, 0, 0, 0, 0, 0, 0, 0, 0, 0, 0, 0, 0, 0, 0,
+    0, 0, 0, 0, 0, 0, 0, 0, 0, 0, 0, 0, 0, 0, 0, 0, 0, 0, 0, 0, 0, 0, 0, 0, 0, 0, 0, 0, 0, 0, 0, 0, 0, 0, 0, 0, 0, 0, 0, 0, 0, 0, 0, 0, 0, 0, 0, 0, 0, 0, 0, 0, 0, 0, 0, 0, 0, 0, 0, 0, 0, 0, 0, 0, 0, 0, 0, 0, 0, 0,
+    0, 0, 0, 0, 0, 0, 0, 0, 0, 0, 0, 0, 0, 0, 0, 0, 0, 0, 0, 0, 0, 0, 0, 0, 0, 0, 0, 0, 0, 0, 0, 0, 0, 0, 0, 0, 0, 0, 0, 0, 0, 0, 0, 0, 0, 0, 0, 0, 0, 0, 0, 0, 0, 0, 0, 0, 0, 0, 0, 0, 0, 0, 0, 0, 0, 0, 0, 0, 0, 0,
+    0, 0, 0, 0, 0, 0, 0, 0, 0, 0, 0, 0, 0, 0, 0, 0, 0, 0, 0, 0, 0, 0, 0, 0, 0, 0, 0, 0, 0, 0, 0, 0, 0, 0, 0, 0, 0, 0, 0, 0, 0, 0, 0, 0, 0, 0, 0, 0, 0, 0, 0, 0, 0, 0, 0, 0, 0, 0, 0, 0, 0, 0, 0, 0, 0, 0, 0, 0, 0, 0,
+    0, 0, 0, 0, 0, 0, 0, 0, 0, 0, 0, 0, 0, 0, 0, 0, 0, 0, 0, 0, 0, 0, 0, 0, 0, 0, 0, 0, 0, 0, 0, 0, 0, 0, 0, 0, 0, 0, 0, 0, 0, 0, 0, 0, 0, 0, 0, 0, 0, 0, 0, 0, 0, 0, 0, 0, 0, 0, 0, 0, 0, 0, 0, 0, 0, 0, 0, 0, 0, 0,
+    0, 0, 0, 0, 0, 0, 0, 0, 0, 0, 0, 0, 0, 0, 0, 0, 0, 0, 0, 0, 0, 0, 0, 0, 0, 0, 0, 0, 0, 0, 0, 0, 0, 0, 0, 0, 0, 0, 0, 0, 0, 0, 0, 0, 0, 0, 0, 0, 0, 0, 0, 0, 0, 0, 0, 0, 0, 0, 0, 0, 0, 0, 0, 0, 0, 0, 0, 0, 0, 0]

diff --git a/index.js b/index.js
@@ -1,5 +1,6 @@
 const canvas = document.querySelector('canvas')
 const c = canvas.getContext('2d')
+console.log(battleZonesData);
 
 canvas.width = 1024
 canvas.height = 576
@@ -9,7 +10,11 @@ for (let i = 0; i < collisions.length; i += 70) {
     collisionsMap.push(collisions.slice(i, 70 + i))
 }
 
-
+const battleZonesMap = []
+for (let i = 0; i < battleZonesData.length; i += 70) {
+    battleZonesMap.push(battleZonesData.slice(i, 70 + i))
+}
+console.log(battleZonesMap);
 
 const boundaries = []
 const offset = {
@@ -30,7 +35,22 @@ collisionsMap.forEach((row, i) => {
                     }))
     })
 })
+const battleZones = []
 
+battleZonesMap.forEach((row, i) => {
+    row.forEach((symbol, j) => {
+        if (symbol === 4541)
+            battleZones.push(
+                new Boundary(
+                    {
+                        position: {
+                            x: j * Boundary.width + offset.x,
+                            y: i * Boundary.height + offset.y
+                        }
+                    }))
+    })
+})
+console.log(battleZones)
 
 const image = new Image()
 image.src = './images/pokemonStyleTileset.png'
@@ -56,7 +76,7 @@ const player = new Sprite({
         y: canvas.height / 2 - 68 / 2
     },
     image: playerDownImage,
-    frames:{
+    frames: {
         max: 4
     },
     sprites: {
@@ -99,29 +119,56 @@ const keys = {
     },
 }
 
-const movables = [background, foreground, ...boundaries]
-function rectangularCollision({rectangle1, rectangle2}){
- return (rectangle1.position.x + rectangle1.width >= rectangle2.position.x &&
-     rectangle1.position.x <= rectangle2.position.x + rectangle2.width &&
-     rectangle1.position.y <= rectangle2.position.y + rectangle2.height &&
-     rectangle1.position.y + rectangle1.height >= rectangle2.position.y)
+const movables = [background, foreground, ...boundaries, ...battleZones]
+
+function rectangularCollision({rectangle1, rectangle2}) {
+    return (rectangle1.position.x + rectangle1.width >= rectangle2.position.x &&
+        rectangle1.position.x <= rectangle2.position.x + rectangle2.width &&
+        rectangle1.position.y <= rectangle2.position.y + rectangle2.height &&
+        rectangle1.position.y + rectangle1.height >= rectangle2.position.y)
 }
+
 function animate() {
     window.requestAnimationFrame(animate)
     background.draw()
-      boundaries.forEach(boundary =>{
-         boundary.draw()
+    boundaries.forEach(boundary => {
+        boundary.draw()
+    })
+    battleZones.forEach(battleZone => {
+        battleZone.draw()
+    })
 
-        })
     player.draw()
     foreground.draw()
+
+    if (keys.w.pressed || keys.a.pressed || keys.s.pressed || keys.d.pressed) {
+        for (let i = 0; i < battleZones.length; i++) {
+            const battleZone = battleZones[i]
+            const overlappingArea =
+                (Math.min(player.position.x + player.width, battleZone.position.x + battleZone.width)
+                - Math.max(player.position.x, battleZone.position.x)) *
+                (Math.min(player.position.y + player.height, battleZone.position.y + battleZone.height)
+            - Math.max(player.position.y, battleZone.position.y))
+            if (
+                rectangularCollision({
+                    rectangle1: player,
+                    rectangle2: battleZone
+                }) &&
+                overlappingArea > (player.width * player.height) / 2
+            ) {
+                console.log('battle zone collision')
+                break
+            }
+        }
+    }
 
     let moving = true
     player.moving = false
     if (keys.w.pressed && lastKey === 'w') {
         player.moving = true
         player.image = player.sprites.up
-        for(let i = 0; i < boundaries.length; i++){
+
+        for (let i = 0; i < boundaries.length; i++) {
             const boundary = boundaries[i]
             if (
                 rectangularCollision({
@@ -129,23 +176,26 @@ function animate() {
                     rectangle2: {
                         ...boundary,
                         position: {
-                        x: boundary.position.x,
+                            x: boundary.position.x,
                             y: boundary.position.y + 3
-                        }}
+                        }
+                    }
                 })
-            ){
+            ) {
                 moving = false
                 break
             }
         }
+
+
         if (moving)
-        movables.forEach((movable) => {
-            movable.position.y += 3
-        })
+            movables.forEach((movable) => {
+                movable.position.y += 3
+            })
     } else if (keys.a.pressed && lastKey === 'a') {
         player.moving = true
         player.image = player.sprites.left
-        for(let i = 0; i < boundaries.length; i++){
+        for (let i = 0; i < boundaries.length; i++) {
             const boundary = boundaries[i]
             if (
                 rectangularCollision({
@@ -155,21 +205,22 @@ function animate() {
                         position: {
                             x: boundary.position.x + 3,
                             y: boundary.position.y
-                        }}
+                        }
+                    }
                 })
-            ){
+            ) {
                 moving = false
                 break
             }
         }
         if (moving)
-        movables.forEach((movable) => {
-            movable.position.x += 3
-        })
+            movables.forEach((movable) => {
+                movable.position.x += 3
+            })
     } else if (keys.s.pressed && lastKey === 's') {
         player.moving = true
         player.image = player.sprites.down
-        for(let i = 0; i < boundaries.length; i++){
+        for (let i = 0; i < boundaries.length; i++) {
             const boundary = boundaries[i]
             if (
                 rectangularCollision({
@@ -179,21 +230,22 @@ function animate() {
                         position: {
                             x: boundary.position.x,
                             y: boundary.position.y - 3
-                        }}
+                        }
+                    }
                 })
-            ){
+            ) {
                 moving = false
                 break
             }
         }
-        if(moving)
-        movables.forEach((movable) => {
-            movable.position.y -= 3
-        })
+        if (moving)
+            movables.forEach((movable) => {
+                movable.position.y -= 3
+            })
     } else if (keys.d.pressed && lastKey === 'd') {
         player.moving = true
         player.image = player.sprites.right
-        for(let i = 0; i < boundaries.length; i++){
+        for (let i = 0; i < boundaries.length; i++) {
             const boundary = boundaries[i]
             if (
                 rectangularCollision({
@@ -203,17 +255,18 @@ function animate() {
                         position: {
                             x: boundary.position.x - 3,
                             y: boundary.position.y
-                        }}
+                        }
+                    }
                 })
-            ){
+            ) {
                 moving = false
                 break
             }
         }
-        if(moving)
-        movables.forEach((movable) => {
-            movable.position.x -= 3
-        })
+        if (moving)
+            movables.forEach((movable) => {
+                movable.position.x -= 3
+            })
     }
 
 }

diff --git a/index.html b/index.html
@@ -4,6 +4,8 @@
 	}
 </style>
 <canvas></canvas>
+
+<script src="data/battleZones.js"></script>
 <script src="data/collisions.js"></script>
 <script src="classes.js"></script>
 <script src="index.js"></script>
